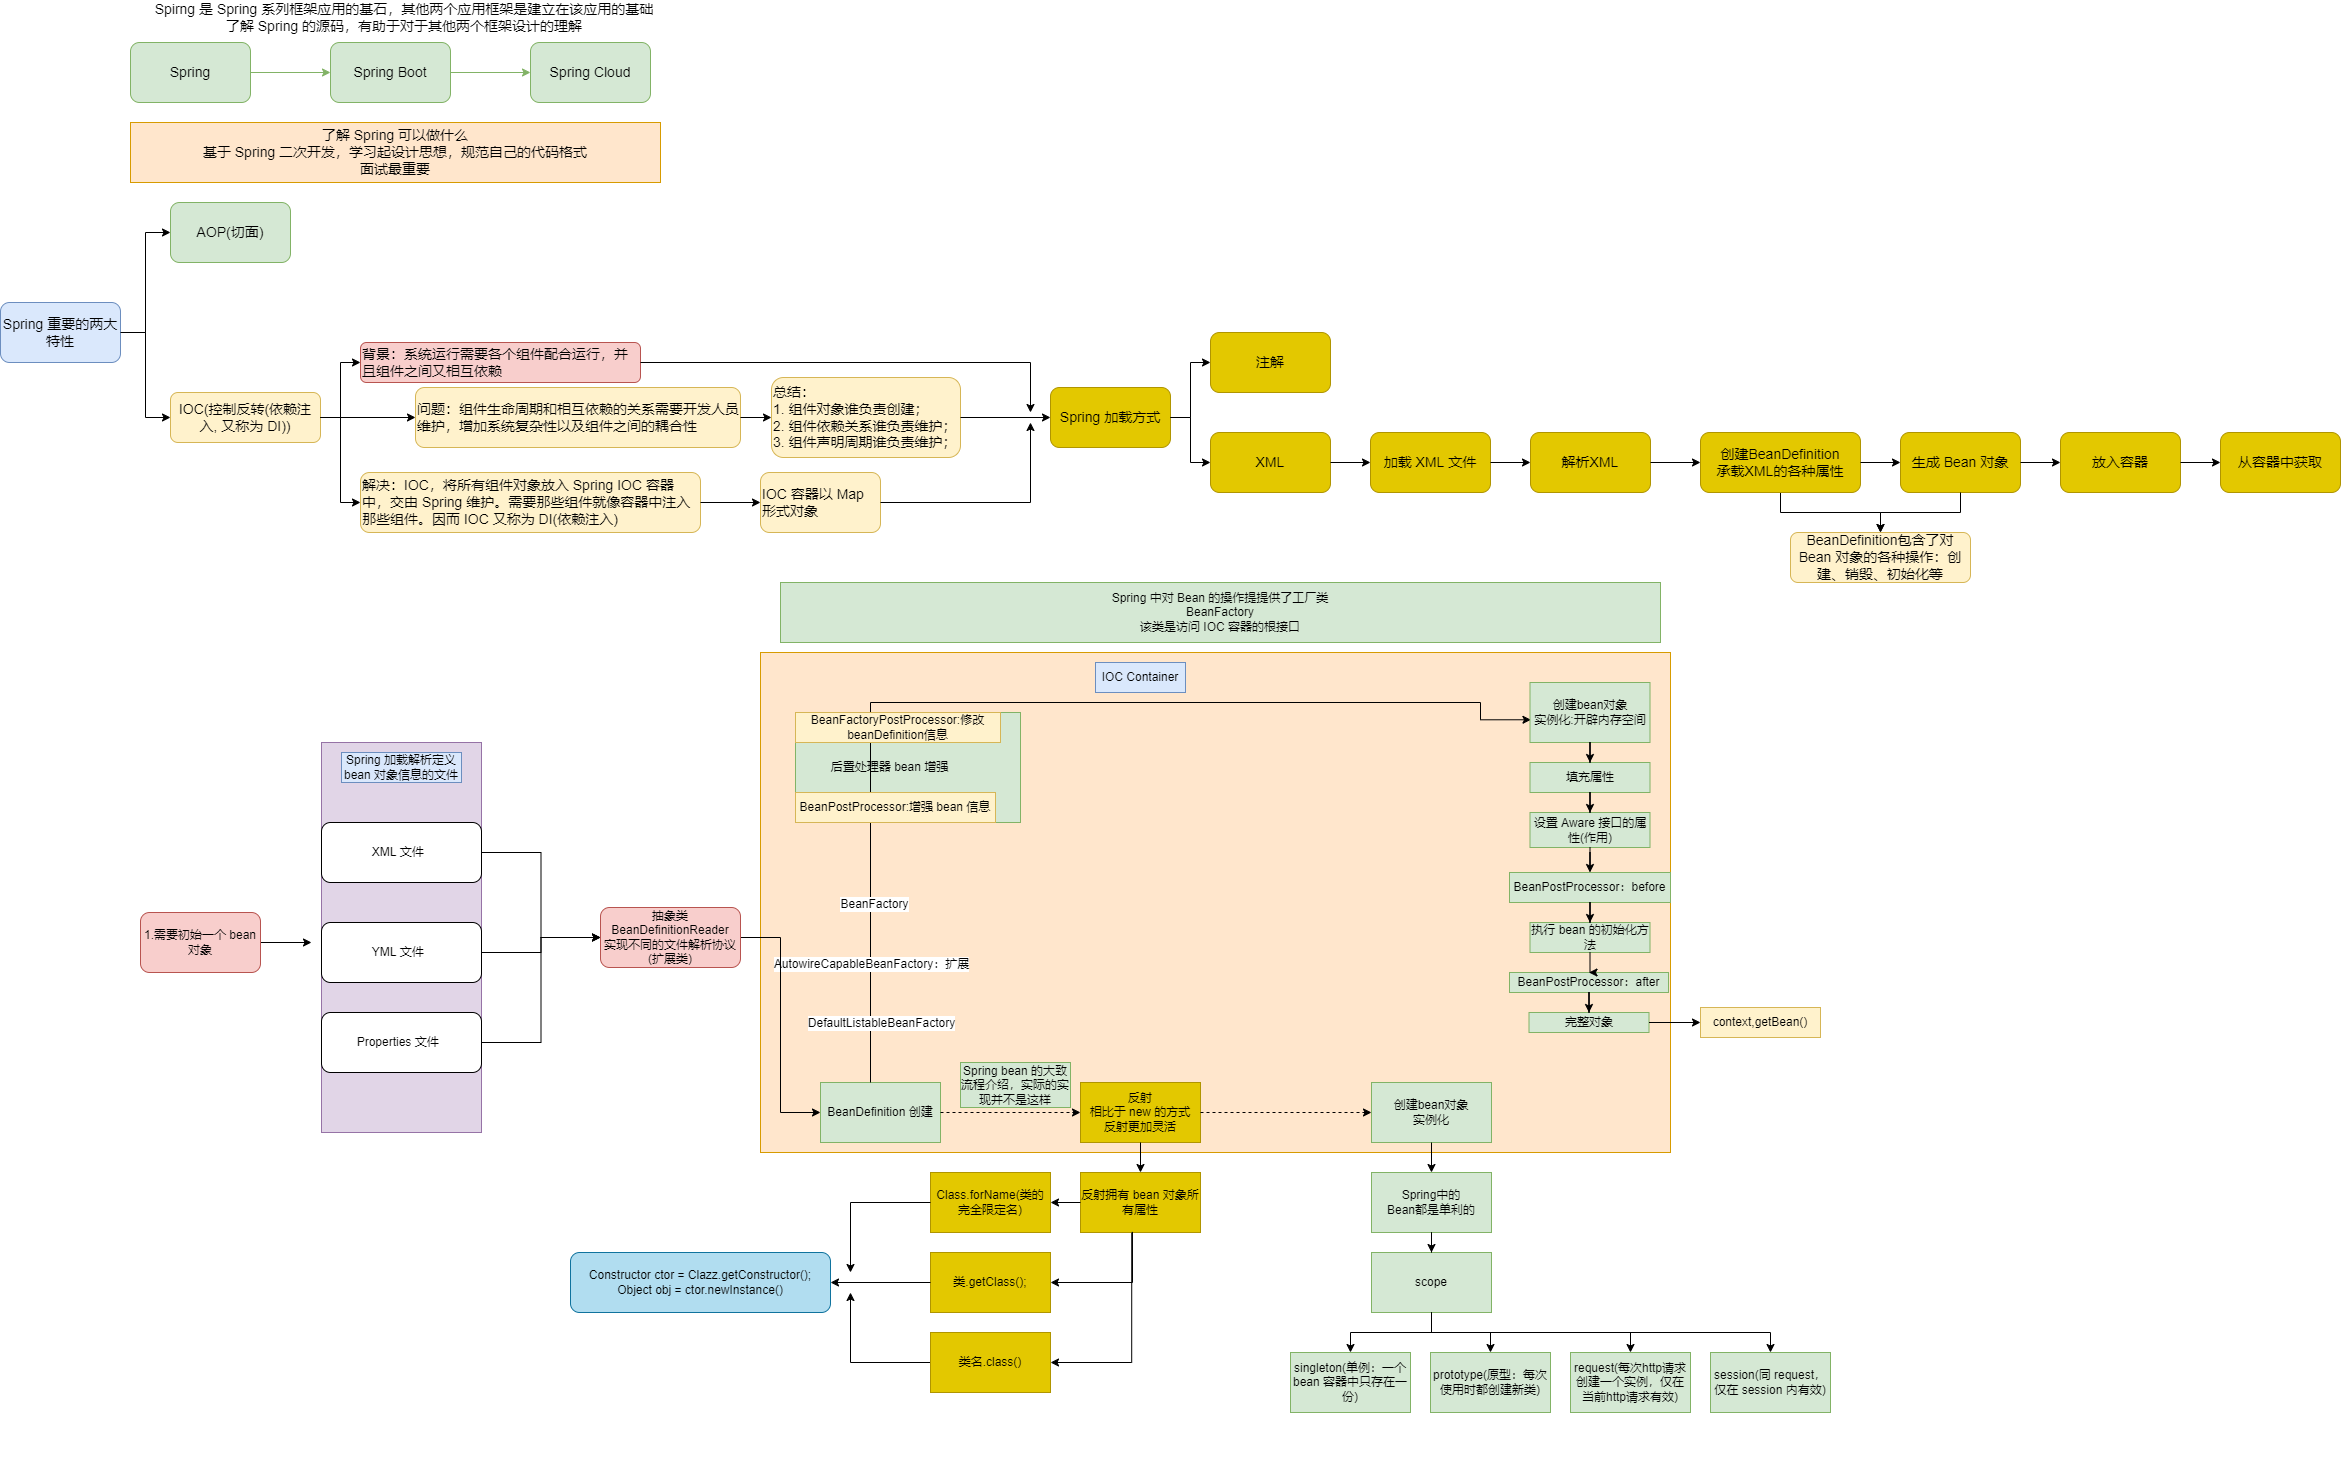
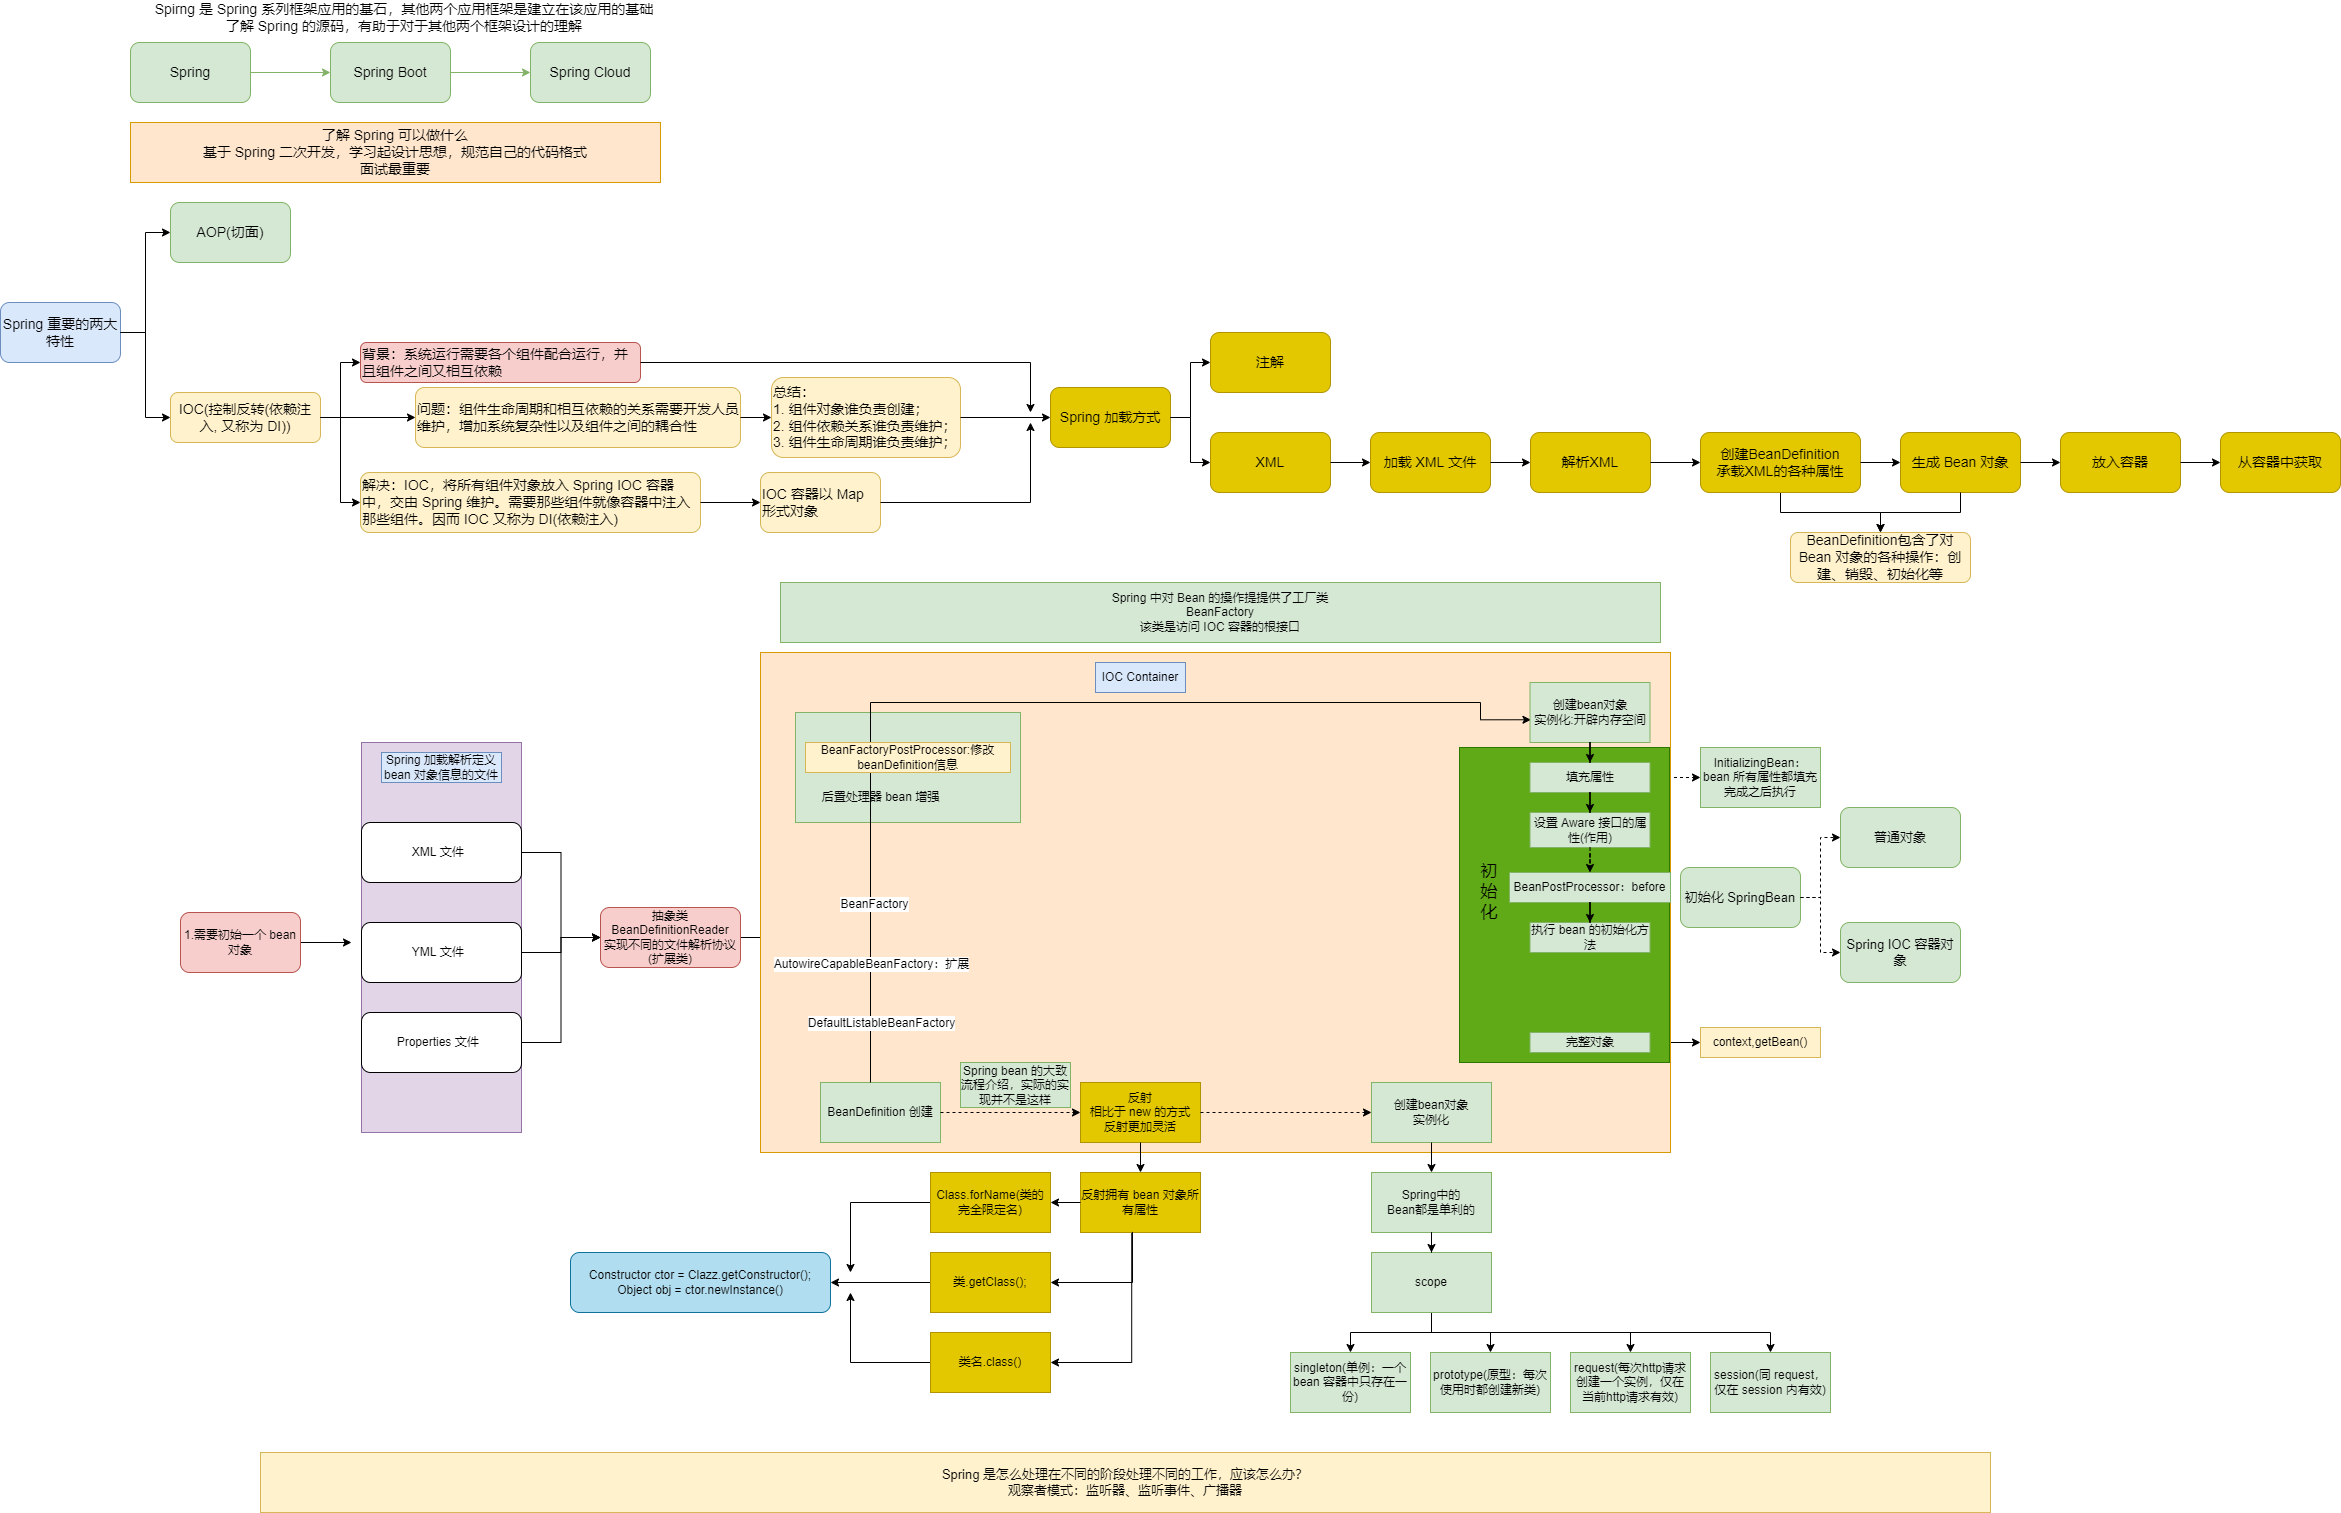
源码

diff --git a/Spring_St/spring-framework-5.2.x/spring-context/src/main/java/org/springframework/context/support/AbstractApplicationContext.java b/Spring_St/spring-framework-5.2.x/spring-context/src/main/java/org/springframework/context/support/AbstractApplicationContext.java
@@ -516,10 +516,17 @@ public abstract class AbstractApplicationContext extends DefaultResourceLoader
 	@Override
 	public void refresh() throws BeansException, IllegalStateException {
 		synchronized (this.startupShutdownMonitor) {
-			// Prepare this context for refreshing.
+			// Prepare this context for refreshing
+			/**
+			 * 1. 设置容器启动时间
+			 * 2. 设置容器开、关标志位：active: true; closed: false;
+			 * 3. 验证容器设置的 setRequiredProperties 需要解析的属性是否存在，并且解析值非 null;
+			 * 4. 将监听器放入集合
+			 */
 			prepareRefresh();
 
 			// Tell the subclass to refresh the internal bean factory.
+			// 创建 bean 工厂：1. 清除之前所有的工厂，并创建新的工厂
 			ConfigurableListableBeanFactory beanFactory = obtainFreshBeanFactory();
 
 			// Prepare the bean factory for use in this context.
@@ -584,8 +591,11 @@ public abstract class AbstractApplicationContext extends DefaultResourceLoader
 	 */
 	protected void prepareRefresh() {
 		// Switch to active.
+		// 容器启动时间
 		this.startupDate = System.currentTimeMillis();
+		// 容器关闭标志位
 		this.closed.set(false);
+		// 容器启动标志位
 		this.active.set(true);
 
 		if (logger.isDebugEnabled()) {
@@ -602,9 +612,11 @@ public abstract class AbstractApplicationContext extends DefaultResourceLoader
 
 		// Validate that all properties marked as required are resolvable:
 		// see ConfigurablePropertyResolver#setRequiredProperties
+		// 验证容器所需要的属性是否填充
 		getEnvironment().validateRequiredProperties();
 
 		// Store pre-refresh ApplicationListeners...
+		// 监听器集合：为了 Spring 扩展使用 (在 Spring Boot 中有使用)
 		if (this.earlyApplicationListeners == null) {
 			this.earlyApplicationListeners = new LinkedHashSet<>(this.applicationListeners);
 		}
@@ -626,6 +638,7 @@ public abstract class AbstractApplicationContext extends DefaultResourceLoader
 	 */
 	protected void initPropertySources() {
 		// For subclasses: do nothing by default.
+		System.out.println("AbstractApplicationContext.initPropertySources: For subclasses: do nothing by default");
 	}
 
 	/**

diff --git a/Spring_St/spring-framework-5.2.x/spring-context/src/main/java/org/springframework/context/support/ClassPathXmlApplicationContext.java b/Spring_St/spring-framework-5.2.x/spring-context/src/main/java/org/springframework/context/support/ClassPathXmlApplicationContext.java
@@ -139,8 +139,10 @@ public class ClassPathXmlApplicationContext extends AbstractXmlApplicationContex
 			throws BeansException {
 
 		super(parent);
+		// 1.设置配置文件路径，并准备 Java 的运行环境：customizePropertySources
 		setConfigLocations(configLocations);
 		if (refresh) {
+			// 刷新环境，创建 bean
 			refresh();
 		}
 	}

diff --git a/Spring_St/spring-framework-5.2.x/spring-azh-example/src/main/resources/note/1.Spring-IOC.md b/Spring_St/spring-framework-5.2.x/spring-azh-example/src/main/resources/note/1.Spring-IOC.md
@@ -398,3 +398,9 @@ public class SpringFactoryBeanTest {
 使用 beanFactory 创建对象
 ```
 证明获取到的对象是 FactoryBeanDto。
+
+# Spring bean 的创建流程
+
+1. setConfigLocations(configLocations): 设置配置文件路径，并准备 Java 的运行环境：customizePropertySources;
+2. prepareRefresh(): 准备 spring IOC 运行环境
+3. 创建 bean 工厂: DefaultListableBeanFactory
